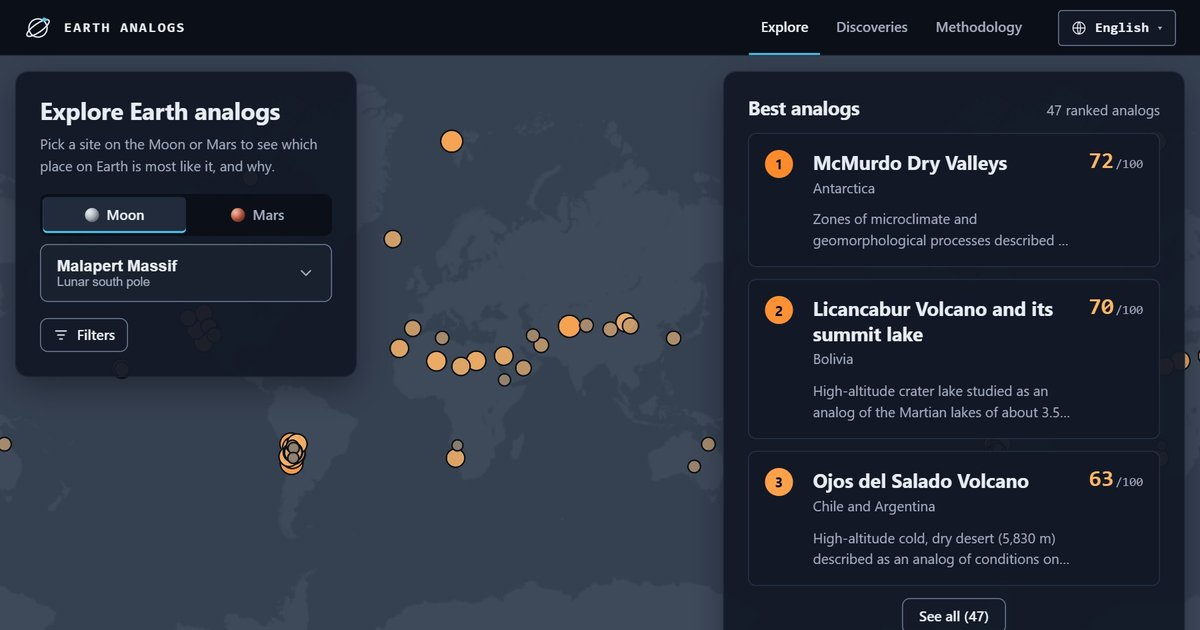
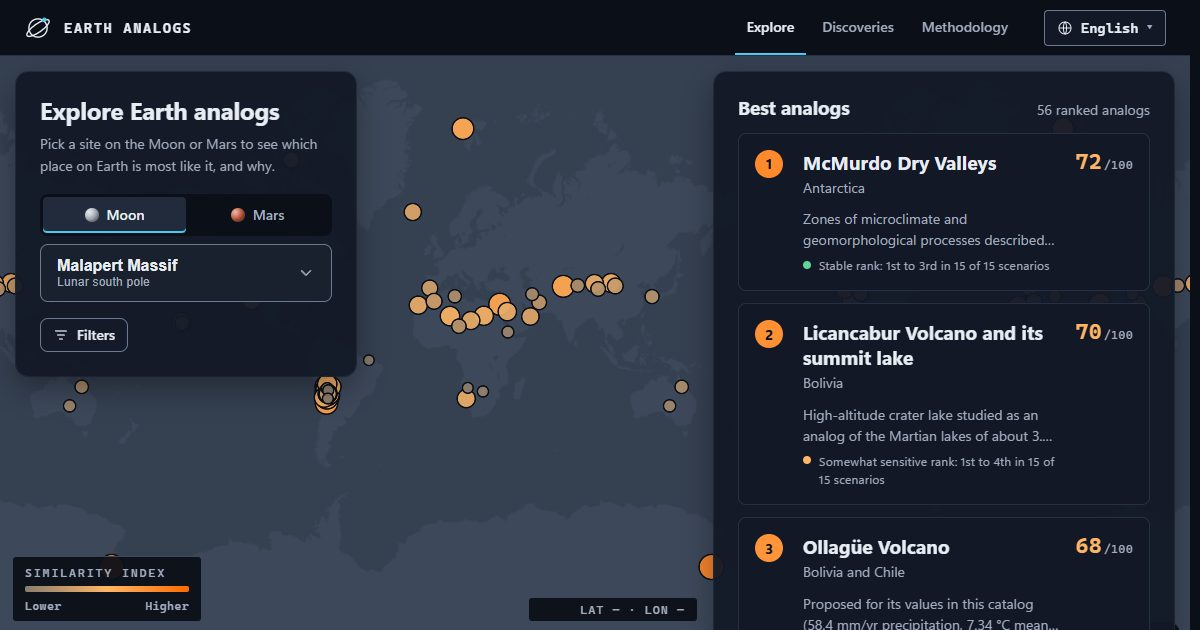
data: etiquetas con fuente para Ollague, Wadi Rum y Valle de la Luna; imagen social con el ranking actual

diff --git a/TASKS.md b/TASKS.md
@@ -44,7 +44,7 @@ IA recomendada: Claude. Prompt: `prompts/dante.md`.
 
 IA recomendada: ChatGPT con búsqueda web para la literatura, y la IA de código que tengas para los scripts. Prompt: `prompts/lian.md`.
 
-- [x] **L-1 (versión 1 con 10 candidatos a las 15:00; completo a las 19:00).** `data/candidates.json` con 40 o más: 12 o más conocidos, 25 o más poco estudiados y 8 o más de Bolivia. Variables, fuentes, `known`, `tags` y referencias. Scripts de apoyo en `pipeline/earth/`. _Estado: 56 candidatos (31 conocidos, 25 poco estudiados, 13 de Bolivia; la revisión final agregó 9 lugares con su fuente y las metas se cumplen otra vez; la auditoría de la fase final pasó 7 a conocidos, ver `docs/AUDITORIA_KNOWN.md`); 6 avisos de `validate.py` (3 sin etiqueta citable y el albedo lunar). McMurdo, Svalbard, La Corona y Manjanggul ya tienen pendiente y relieve (Copernicus DEM)._
+- [x] **L-1 (versión 1 con 10 candidatos a las 15:00; completo a las 19:00).** `data/candidates.json` con 40 o más: 12 o más conocidos, 25 o más poco estudiados y 8 o más de Bolivia. Variables, fuentes, `known`, `tags` y referencias. Scripts de apoyo en `pipeline/earth/`. _Estado: 56 candidatos (31 conocidos, 25 poco estudiados, 13 de Bolivia; la revisión final agregó 9 lugares con su fuente y las metas se cumplen otra vez; la auditoría de la fase final pasó 7 a conocidos, ver `docs/AUDITORIA_KNOWN.md`); 7 avisos de `validate.py` (4 candidatos sin etiqueta citable y el albedo lunar). McMurdo, Svalbard, La Corona y Manjanggul ya tienen pendiente y relieve (Copernicus DEM)._
 - [x] **L-2 (hasta 00:00 para los del top 10 de algún sitio; el resto hasta 04:00).** F4 `web/public/data/fichas.json` con resumen, procesos, usos, **dónde falla la analogía** y referencias. Solo afirmaciones citables. _Estado: 56 fichas, una por candidato (las 31 del top 10 de #52, 16 más y 9 de la revisión final). Los lugares sin estudio planetario publicado dicen "propuesta del equipo"._
 - [x] **L-3 (segunda fase, hasta 04:00).** F7 `web/public/data/explicaciones.json`: explicación de 3 a 4 frases, con lo que se parece y dónde falla, para los 5 mejores pares de cada sitio, redactada con IA y revisada por una persona. _Hecho en la fase final de otra forma: plantilla fija en `web/src/lib/explain.ts` (sin IA ni JSON aparte), 30 pares en español e inglés revisados a mano; se muestra en la comparación._
 - [x] **L-4 (segunda fase, hasta 06:00).** F8 exportar ficha a PDF en `web/src/features/export/` con estilos de impresión. _Hecho en la fase final: botón "Exportar a PDF" en la comparación (`window.print()`) y hoja de impresión en `web/src/styles/app.css`; verificado con `Page.printToPDF`._

diff --git a/docs/QA.md b/docs/QA.md
@@ -6,7 +6,7 @@ Dueño: Joel. Cada fallo va como issue de GitHub con pasos para reproducir. Pasa
 
 - **Versión:** `main` + revisión de la fase final (Undara, Socompa, Rub' al Khali y nueve lugares nuevos; ver `docs/INFORME_FASE_FINAL.md`, "Revisión posterior"). Build de producción con `vite preview`; sigue sin estar en Vercel.
 - **Navegador:** Google Chrome sin interfaz, clics y teclas reales por CDP (`docs/qa/qa.mjs`). Firefox, Safari, lector de pantalla y teléfono real **no se probaron**.
-- **Datos:** 56 candidatos (31 conocidos, 25 poco estudiados, 13 de Bolivia), 6 sitios. `validate.py`: 0 errores, 10 avisos (ya se cumplen las metas del contrato; los avisos son etiquetas sin respaldo citable). Poco estudiados en el top 5 general: 10 de 30. Las 14 URL nuevas de las fichas responden.
+- **Datos:** 56 candidatos (31 conocidos, 25 poco estudiados, 13 de Bolivia), 6 sitios. `validate.py`: 0 errores, 7 avisos (ya se cumplen las metas del contrato; los avisos son el albedo lunar y cuatro candidatos sin etiqueta con respaldo citable: Licancabur, Laguna Verde, Tunupa y Tata Sabaya, con el motivo en `tags_pending`). Poco estudiados en el top 5 general: 10 de 30. Las 14 URL nuevas de las fichas responden.
 - **Código:** `tsc` sin errores, **76 de 76 pruebas** (se regeneraron los valores de referencia de `robustness.test.ts` con `pipeline/sensitivity.py`, porque el cambio de punto de Rub' al Khali movió el rango de temperatura del catálogo), build sin errores.
 - **Resultado: 47 de 47 OK** (se actualizaron dos expectativas de `qa.mjs` al nuevo catálogo: "1.º de 56" y 13 resultados del filtro de Bolivia).
 - **Accesibilidad (`docs/qa/a11y.mjs`, 6 rutas en español e inglés):** sin hallazgos tras corregir tres cosas que la herramienta encontró: los radares tenían un elemento enfocable dentro de contenido oculto (`accessibilityLayer={false}`) y los enlaces de fuentes "[1] [2] [3]" no tenían nombre descriptivo ni 24 px. Foco visible en todo el recorrido con Tab, reflujo sin desborde a 320 y 640 px, contraste de texto sin fallas en los textos medibles (los que están sobre degradados o mapas no se miden).

diff --git a/docs/AUDITORIA_KNOWN.md b/docs/AUDITORIA_KNOWN.md
@@ -73,6 +73,8 @@ Para cumplir otra vez las metas del contrato (25 o más poco estudiados) se busc
 | Desierto de Kumtag (China) | false | 0 en las cuatro fuentes | Tercero en Gale |
 | Lençóis Maranhenses (Brasil) | false | 0 en las cuatro fuentes | Muy húmedo (1399 mm al año): la analogía se limita a las dunas |
 
+Etiquetas: Ollagüe (`hyper-arid`, "una de las regiones más secas de Sudamérica"), Wadi Rum (`aeolian-dunes`) y el Valle de la Luna (`caves`) llevan etiqueta con su fuente de Wikipedia; Tata Sabaya, Tunupa, Licancabur y Laguna Verde (Bolivia) siguen sin etiqueta porque ninguna del vocabulario cerrado tiene respaldo citable (motivo en `tags_pending` del seed).
+
 Se descartaron para el catálogo Laguna Hedionda (sin coordenadas en Wikipedia) y Sol de Mañana y el desierto de Dalí (misma celda de NASA POWER que Laguna Colorada y Siloli: habrían repetido los mismos valores de temperatura y lluvia). Simpson se descartó porque su artículo trata de la formación de dunas "en superficies planetarias" sin nombrarlo como análogo de un cuerpo. **Cambios en los rankings:** Ollagüe desplaza a Ojos del Salado y Socompa a los puestos 4.º y 5.º en Cabeus y Malapert; Kumtag es tercero en Gale; y como todos los lugares existentes bajan algunos puestos, se actualizaron las fichas y los textos.
 
 ## Coordenadas verificadas (tarea 1b)

diff --git a/docs/pendientes/lian.md b/docs/pendientes/lian.md
@@ -8,7 +8,7 @@ Ya entregado: L-1. `data/candidates.json` tiene 56 candidatos (31 conocidos, 25 
 
 1. `git checkout main && git pull`
 2. Rama propia: `git checkout -b feat/lian-<tarea>`
-3. Antes de cada cambio de datos: `python pipeline/validate.py`. Hoy da 0 errores y 6 avisos (3 sin etiqueta citable y el albedo lunar).
+3. Antes de cada cambio de datos: `python pipeline/validate.py`. Hoy da 0 errores y 7 avisos (4 candidatos sin etiqueta citable y el albedo lunar).
 4. Nunca inventes datos: si falta un valor, déjalo en `null` y anota la fuente.
 
 ## Pendientes
